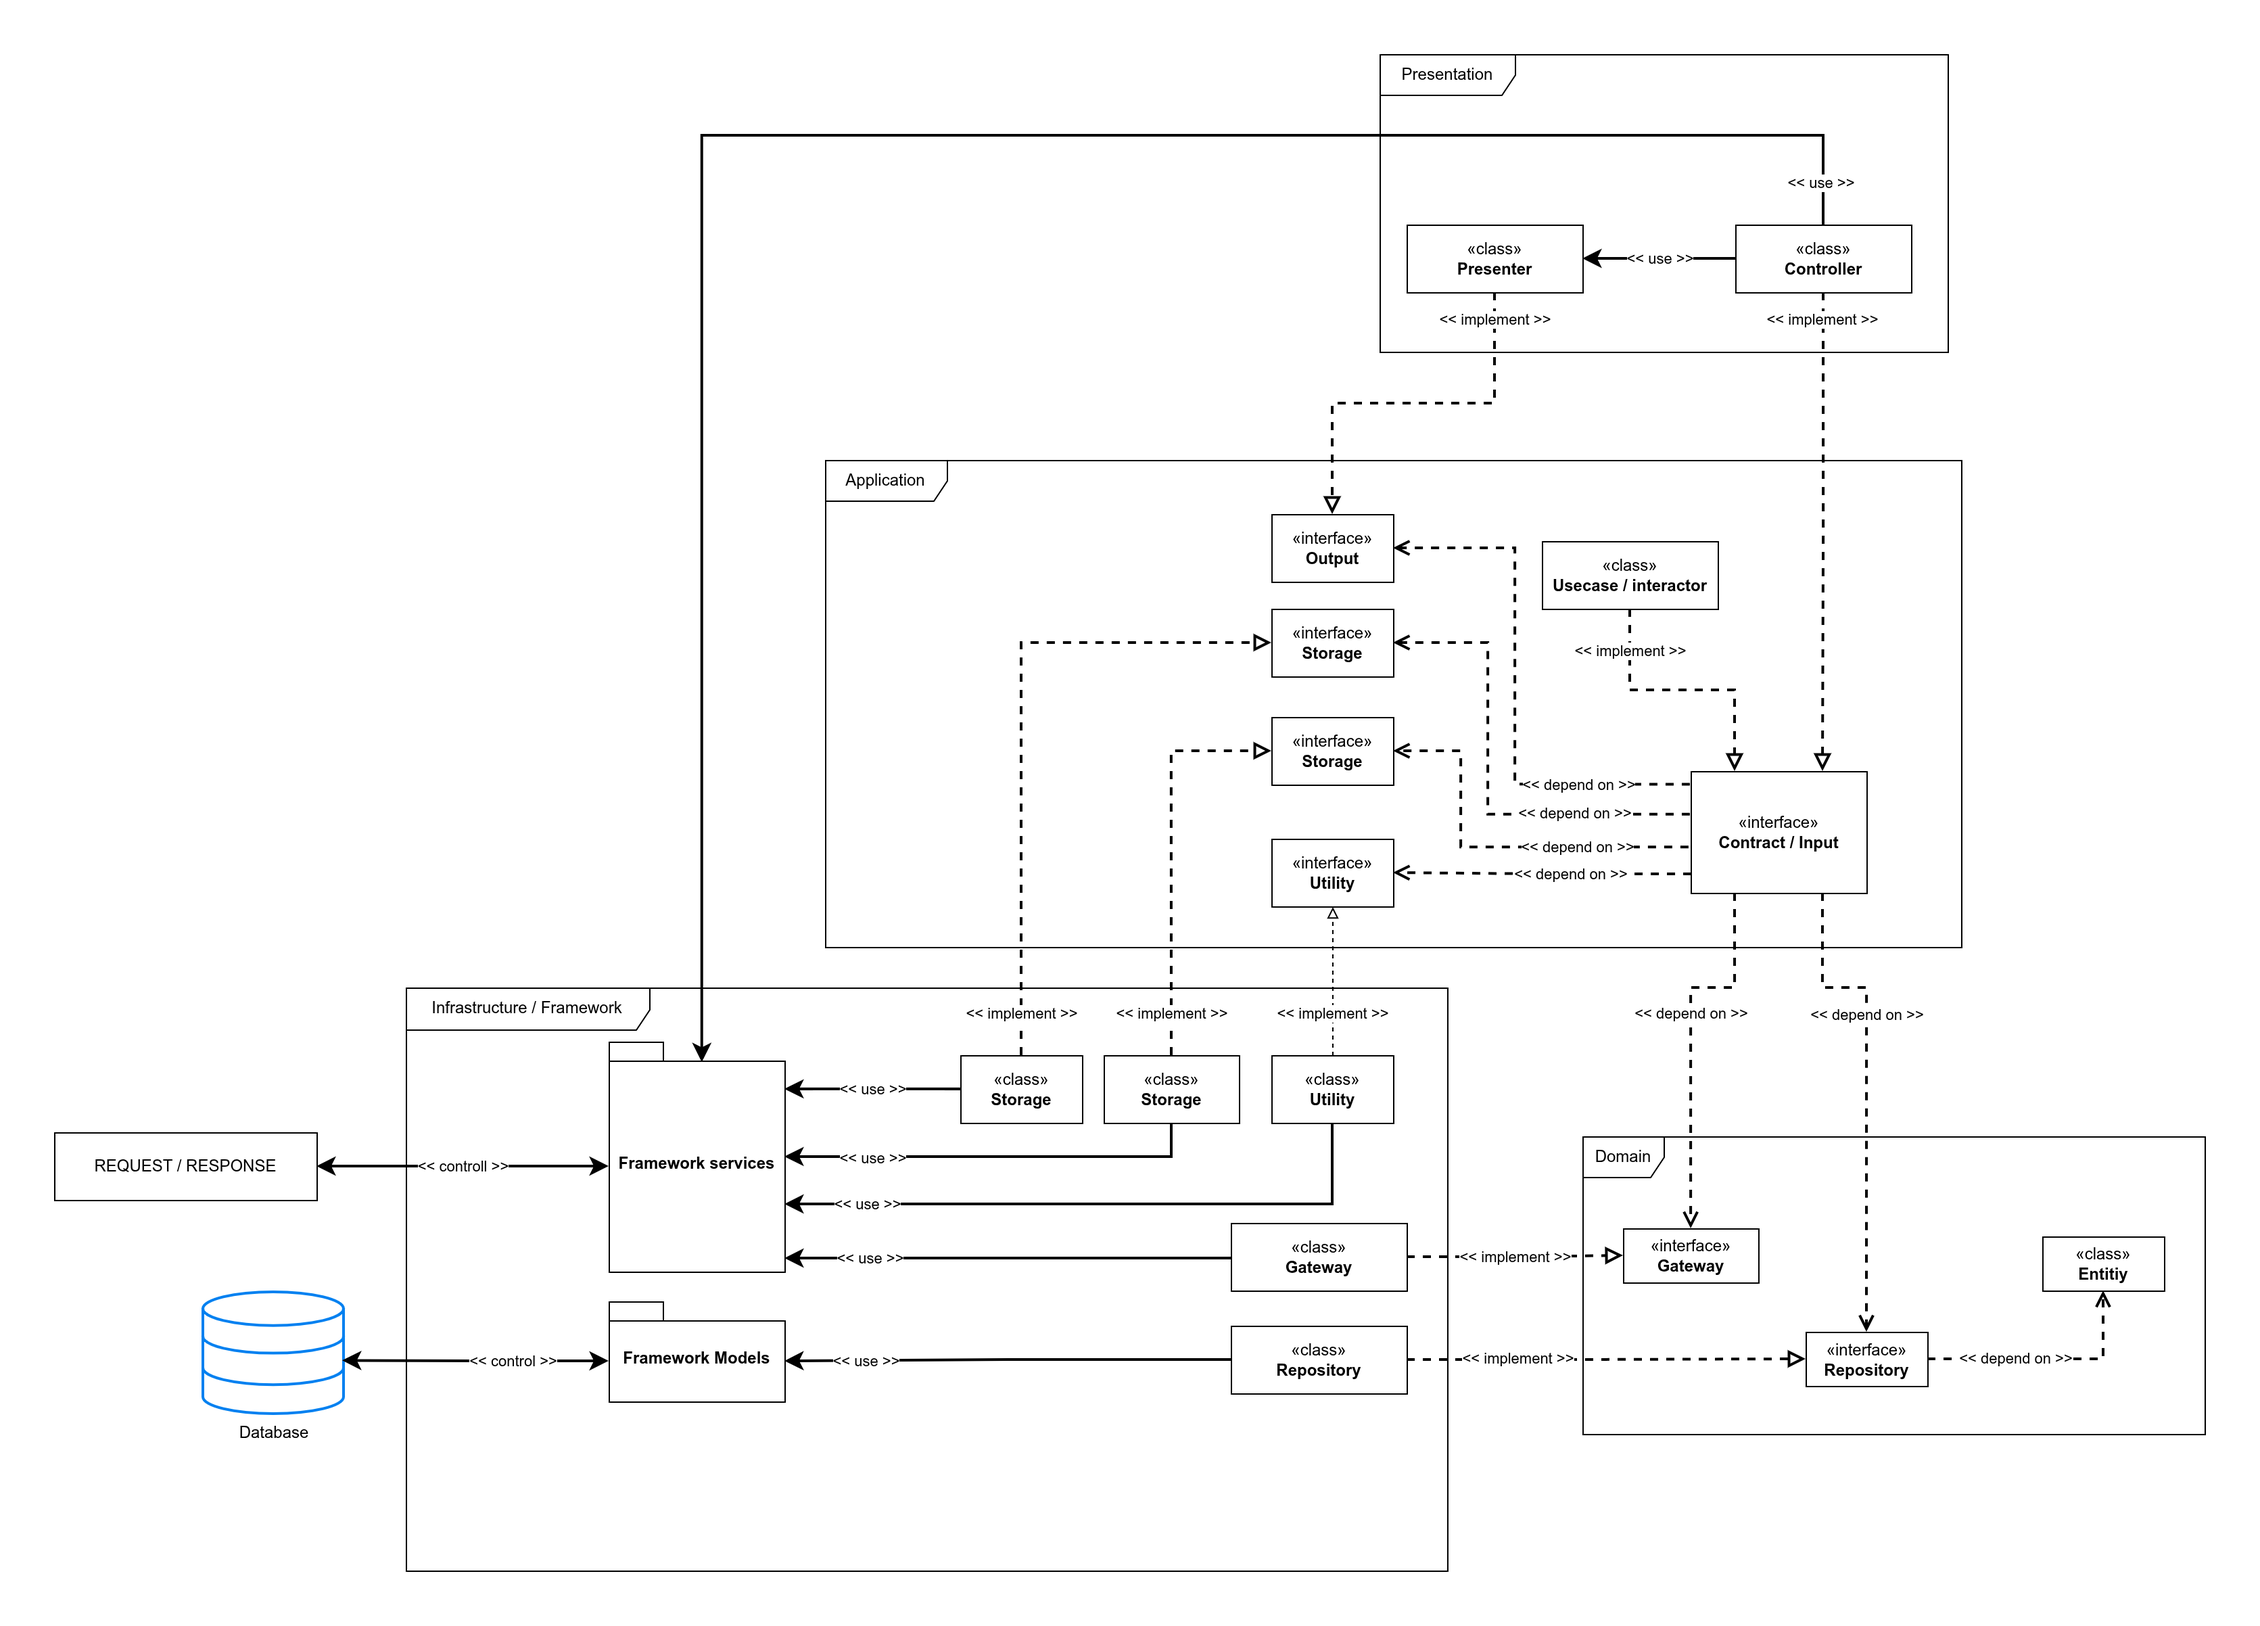
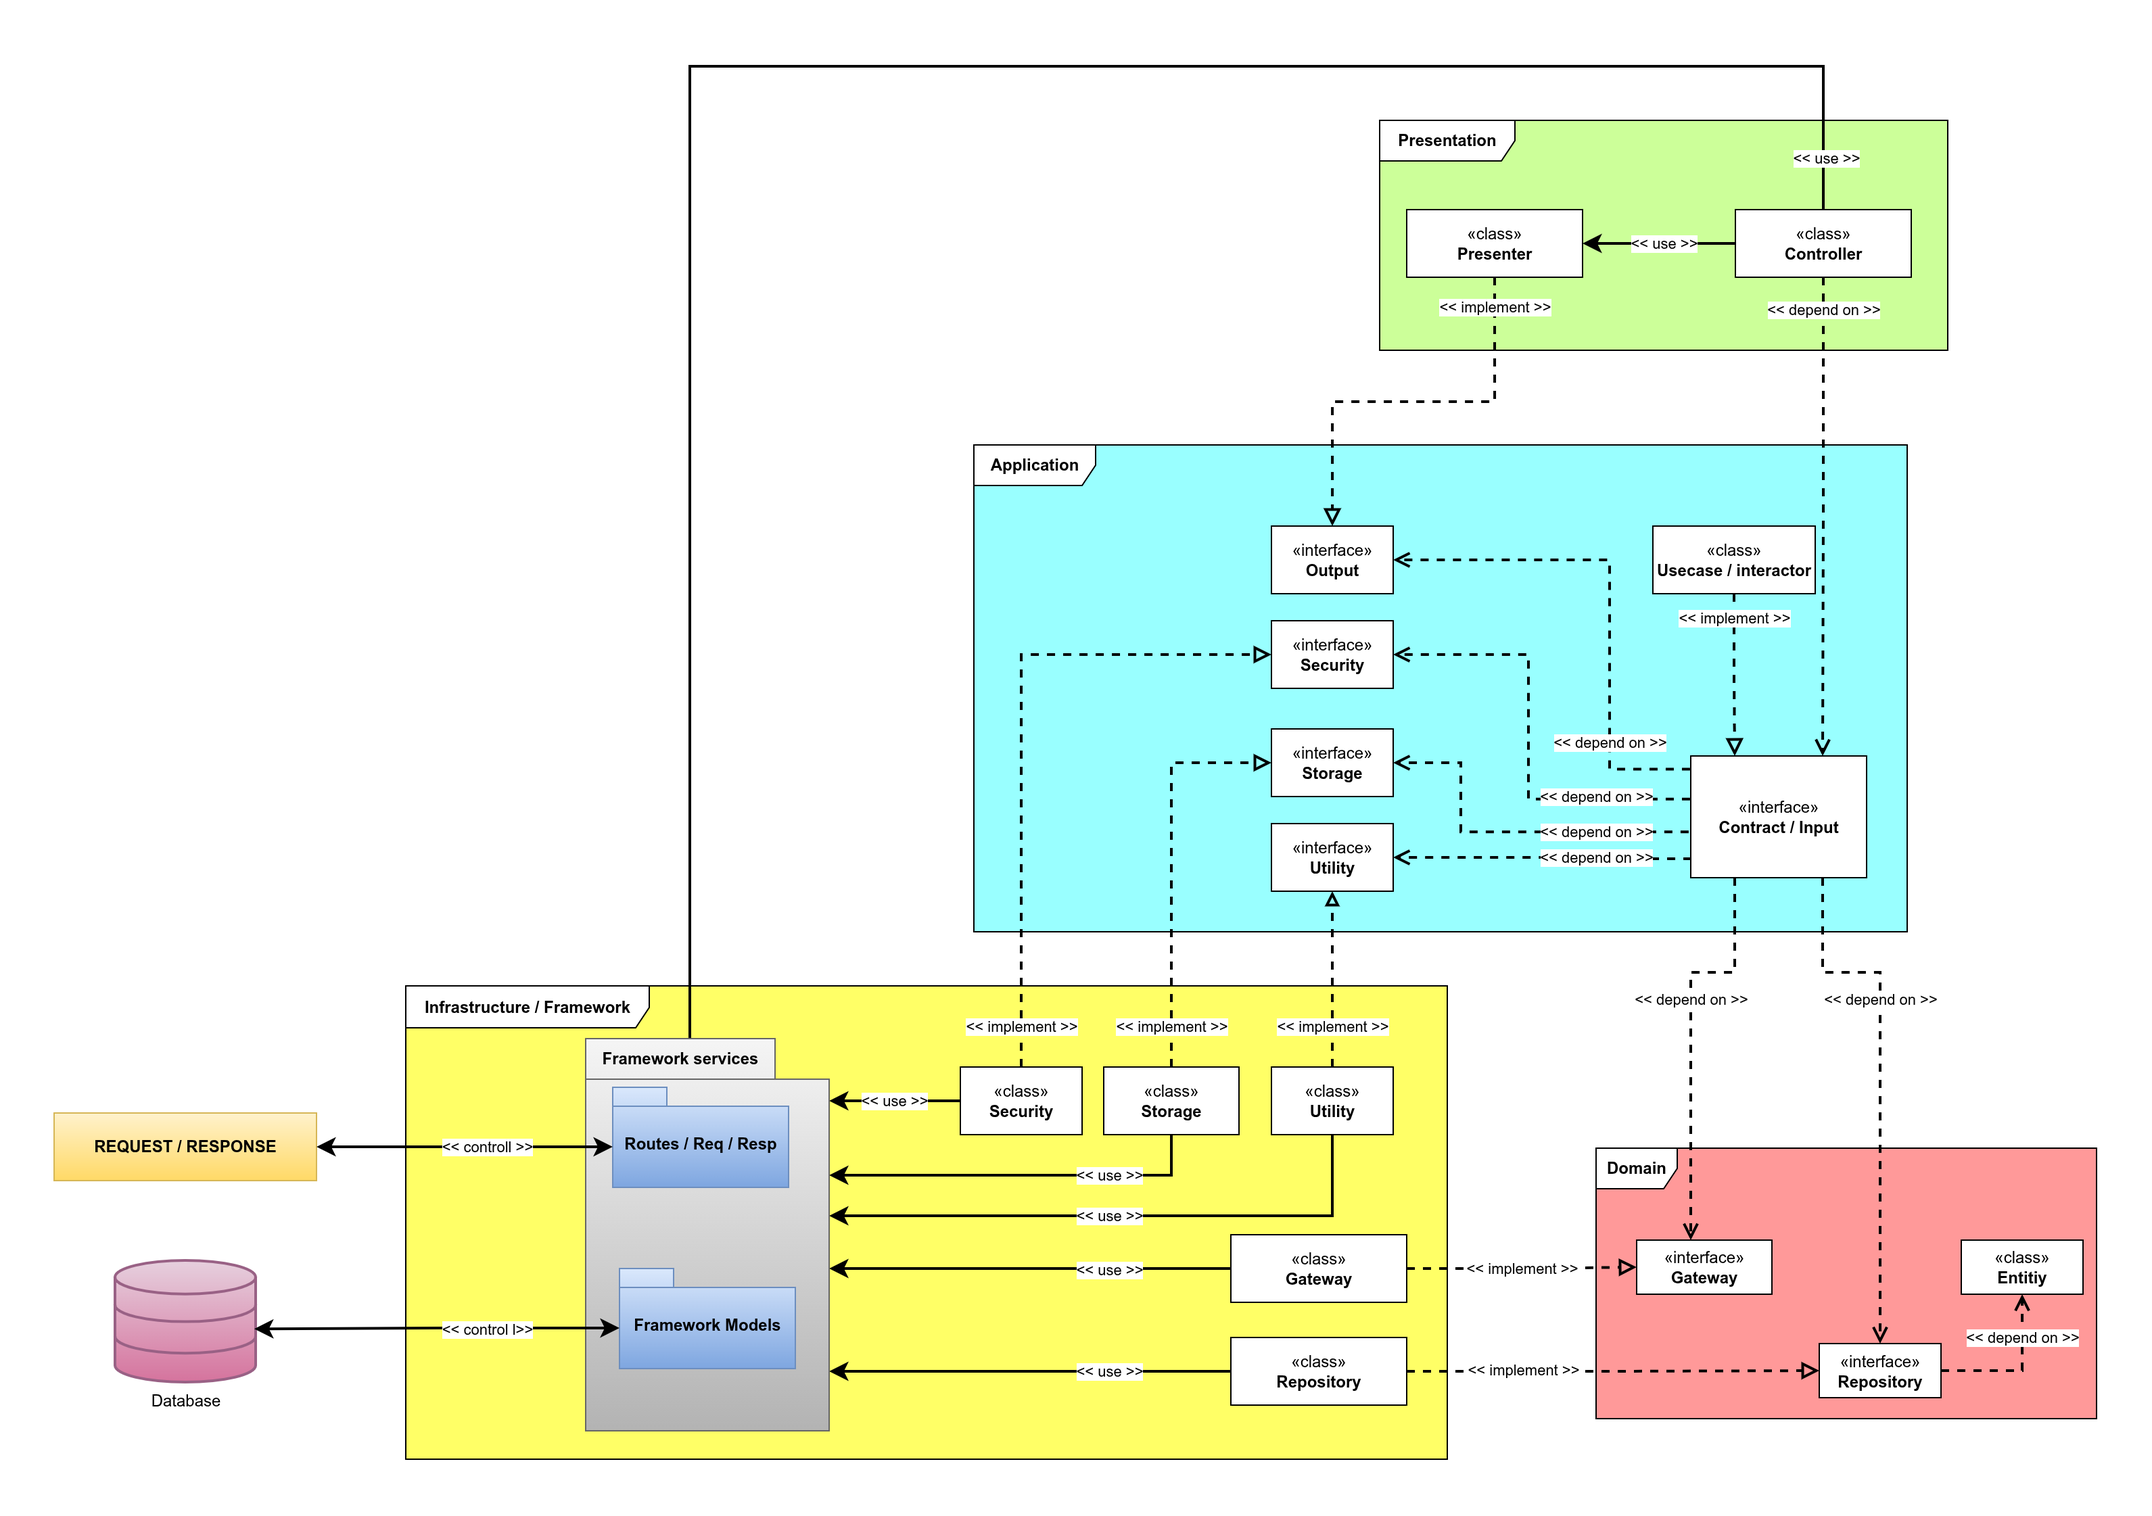
revision test , test manual

diff --git a/tests/Unit/Documents/Usecases/StoreDocumentTest.php b/tests/Unit/Documents/Usecases/StoreDocumentTest.php
@@ -22,7 +22,6 @@ use App\Shared\Infrastructure\Storage\LaravelFile;
 use Mockery;
 use PHPUnit\Framework\TestCase;
 use Exception;
-use Symfony\Component\HttpKernel\Event\ExceptionEvent;
 
 final class StoreDocumentTest extends TestCase
 {
@@ -36,7 +35,7 @@ final class StoreDocumentTest extends TestCase
         parent::setUp();
         $this->addToAssertionCount(1);
     }
-    public function test_it_store_document_record(): void
+    public function test_it_stores_document_record(): void
     {
         $documentRepository = Mockery::mock(DocumentRepository::class);
         $documentCategoryRepository = Mockery::mock(DocumentCategoryRepository::class);
@@ -112,7 +111,7 @@ final class StoreDocumentTest extends TestCase
         );
         $usecase->execute($documentEntity, $files, $presenter);
     }
-    public function test_it_fails_when_current_user_doesnt_have_create_document_permission()
+    public function test_it_fails_when_current_user_doesnt_have_store_document_permission()
     {
         $documentRepository = Mockery::mock(DocumentRepository::class);
         $documentCategoryRepository = Mockery::mock(DocumentCategoryRepository::class);
@@ -151,7 +150,6 @@ final class StoreDocumentTest extends TestCase
         );
         $usecase->execute($documentEntity, $files, $presenter);
     }
-
     public function test_it_handles_unexpected_exception()
     {
         $documentRepository = Mockery::mock(DocumentRepository::class);

diff --git a/tests/Unit/Users/Usecases/GenerateTokenTest.php b/tests/Unit/Users/Usecases/GenerateTokenTest.php
@@ -14,7 +14,7 @@ use Mockery;
 use PHPUnit\Framework\TestCase;
 use Exception;
 
-final class TokenGeneratorTest extends TestCase
+final class GenerateTokenTest extends TestCase
 {
     protected function tearDown(): void
     {
@@ -26,7 +26,7 @@ final class TokenGeneratorTest extends TestCase
         parent::setUp();
         $this->addToAssertionCount(1);
     }
-    public function test_it_destroy_current_active_token(): void
+    public function test_it_destroys_current_active_token(): void
     {
         $userRepository = Mockery::mock(UserRepository::class);
         $passwordHasher = Mockery::mock(PasswordHasherContract::class);
@@ -73,7 +73,6 @@ final class TokenGeneratorTest extends TestCase
             $presenter
         );
     }
-
     public function test_it_fails_when_email_or_password_is_empty(): void
     {
         $userRepository = Mockery::mock(UserRepository::class);
@@ -94,7 +93,6 @@ final class TokenGeneratorTest extends TestCase
 
         $usecase->execute('', '', $presenter);
     }
-
     public function test_it_fails_when_credential_is_wrong(): void
     {
         $userRepository = Mockery::mock(UserRepository::class);
@@ -123,7 +121,6 @@ final class TokenGeneratorTest extends TestCase
             $presenter
         );
     }
-
     public function test_it_handles_unexpected_exception(): void
     {
         $userRepository = Mockery::mock(UserRepository::class);

diff --git a/tests/Unit/Documents/Usecases/ShowDocumentFileTest.php b/tests/Unit/Documents/Usecases/ShowDocumentFileTest.php
@@ -27,7 +27,7 @@ final class ShowDocumentFileTest extends TestCase
         parent::setUp();
         $this->addToAssertionCount(1);
     }
-    public function test_it_show_public_document_file_record(): void
+    public function test_it_shows_public_document_file_record(): void
     {
         $fileRrepository = Mockery::mock(FileRepository::class);
         $permissionGateway = Mockery::mock(PermissionGateway::class);
@@ -68,7 +68,7 @@ final class ShowDocumentFileTest extends TestCase
         );
         $usecase->execute(1, $presenter);
     }
-    public function test_it_show_public_and_private_document_file_record(): void
+    public function test_it_shows_public_and_private_document_file_record(): void
     {
         $fileRrepository = Mockery::mock(FileRepository::class);
         $permissionGateway = Mockery::mock(PermissionGateway::class);

diff --git a/tests/Unit/Categories/Usecases/DestroyCategoryTest.php b/tests/Unit/Categories/Usecases/DestroyCategoryTest.php
@@ -27,7 +27,7 @@ final class DestroyCategoryTest extends TestCase
         parent::setUp();
         $this->addToAssertionCount(1);
     }
-    public function test_it_destroy_category_record(): void
+    public function test_it_destroys_category_record(): void
     {
         $categoryRepository = Mockery::mock(CategoryRepository::class);
         $permissionGateway = Mockery::mock(PermissionGateway::class);
@@ -137,8 +137,7 @@ final class DestroyCategoryTest extends TestCase
         );
         $usecase->execute($categoryId, $presenter);
     }
-
-    public function test_it_fails_when_trying_to_delete_default_group()
+    public function test_it_fails_when_trying_to_delete_default_category()
     {
         $categoryRepository = Mockery::mock(CategoryRepository::class);
         $permissionGateway = Mockery::mock(PermissionGateway::class);

diff --git a/tests/Unit/Users/Usecases/UpdateUserTest.php b/tests/Unit/Users/Usecases/UpdateUserTest.php
@@ -77,8 +77,7 @@ final class UpdateUserTest extends TestCase
         );
         $usecase->execute($userEntity, $presenter);
     }
-
-    public function test_it_fails_when_current_user_doesnt_have_edit_user_permission()
+    public function test_it_fails_when_current_user_doesnt_have_update_user_permission()
     {
         $userRepository = Mockery::mock(UserRepository::class);
         $groupRepository = Mockery::mock(GroupRepository::class);
@@ -114,7 +113,6 @@ final class UpdateUserTest extends TestCase
         );
         $usecase->execute($userEntity, $presenter);
     }
-
     public function test_it_fails_when_user_recoed_is_not_found(): void
     {
         $permissionGateway = Mockery::mock(PermissionGateway::class);

diff --git a/tests/Unit/Users/Usecases/DestroyUserTest.php b/tests/Unit/Users/Usecases/DestroyUserTest.php
@@ -27,7 +27,7 @@ final class DestroyUserTest extends TestCase
         parent::setUp();
         $this->addToAssertionCount(1);
     }
-    public function test_it_destroy_user_record(): void
+    public function test_it_destroys_user_record(): void
     {
         $permissionGateway = Mockery::mock(PermissionGateway::class);
         $userRepository = Mockery::mock(UserRepository::class);
@@ -178,7 +178,6 @@ final class DestroyUserTest extends TestCase
         );
         $usecase->execute(1, $presenter);
     }
-
     public function test_it_handles_unexpected_exception()
     {
         $userRepository = Mockery::mock(UserRepository::class);

diff --git a/app/Features/Groups/Presentation/API/Presenters/UpdateGroupPresenter.php b/app/Features/Groups/Presentation/API/Presenters/UpdateGroupPresenter.php
@@ -20,8 +20,8 @@ final class UpdateGroupPresenter implements UpdateGroupOutput
     {
         $this->response = fn() => response()->json([
             'success' => false,
-            'message' => 'can not update the default groups (admin , default)',
-        ]);
+            'message' => "can not update 'Admin' group , this group is protected",
+        ], Response::HTTP_FORBIDDEN);
     }
     public function onNotFound(): void
     {

diff --git a/tests/Unit/Users/Usecases/DestroyTokenTest.php b/tests/Unit/Users/Usecases/DestroyTokenTest.php
@@ -23,7 +23,7 @@ final class DestroyTokenTest extends TestCase
         parent::setUp();
         $this->addToAssertionCount(1);
     }
-    public function test_it_generates_token_when_credentials_are_valid(): void
+    public function test_it_destroys_current_active_token(): void
     {
         $presenter = Mockery::mock(DestroyTokenOutput::class);
         $tokenGenerator = Mockery::mock(TokenGeneratorContract::class);

diff --git a/tests/Unit/Documents/Usecases/DestroyDocumentTest.php b/tests/Unit/Documents/Usecases/DestroyDocumentTest.php
@@ -28,7 +28,7 @@ final class DestroyDocumentTest extends TestCase
         parent::setUp();
         $this->addToAssertionCount(1);
     }
-    public function test_it_destroy_document_record(): void
+    public function test_it_destroys_document_record(): void
     {
         $documentRepository = Mockery::mock(DocumentRepository::class);
         $permissionGateway = Mockery::mock(PermissionGateway::class);

diff --git a/tests/Unit/Groups/Usecases/DestroyGroupTest.php b/tests/Unit/Groups/Usecases/DestroyGroupTest.php
@@ -27,7 +27,7 @@ final class DestroyGroupTest extends TestCase
         parent::setUp();
         $this->addToAssertionCount(1);
     }
-    public function test_it_destroy_group_record(): void
+    public function test_it_destroys_group_record(): void
     {
         $groupRepository = Mockery::mock(GroupRepository::class);
         $permissionGateway = Mockery::mock(PermissionGateway::class);

diff --git a/tests/Unit/Users/Usecases/StoreUserTest.php b/tests/Unit/Users/Usecases/StoreUserTest.php
@@ -29,7 +29,7 @@ final class StoreUserTest extends TestCase
         parent::setUp();
         $this->addToAssertionCount(1);
     }
-    public function test_it_store_user_record(): void
+    public function test_it_stores_user_record(): void
     {
         $userRepository = Mockery::mock(UserRepository::class);
         $groupRepository = Mockery::mock(GroupRepository::class);

diff --git a/tests/Unit/Categories/Usecases/ShowCategoryTest.php b/tests/Unit/Categories/Usecases/ShowCategoryTest.php
@@ -127,7 +127,6 @@ final class ShowCategoryTest extends TestCase
         );
         $usecase->execute($categoryId, $presenter);
     }
-
     public function test_it_handles_unexpected_exception()
     {
         $categoryRepository = Mockery::mock(CategoryRepository::class);
